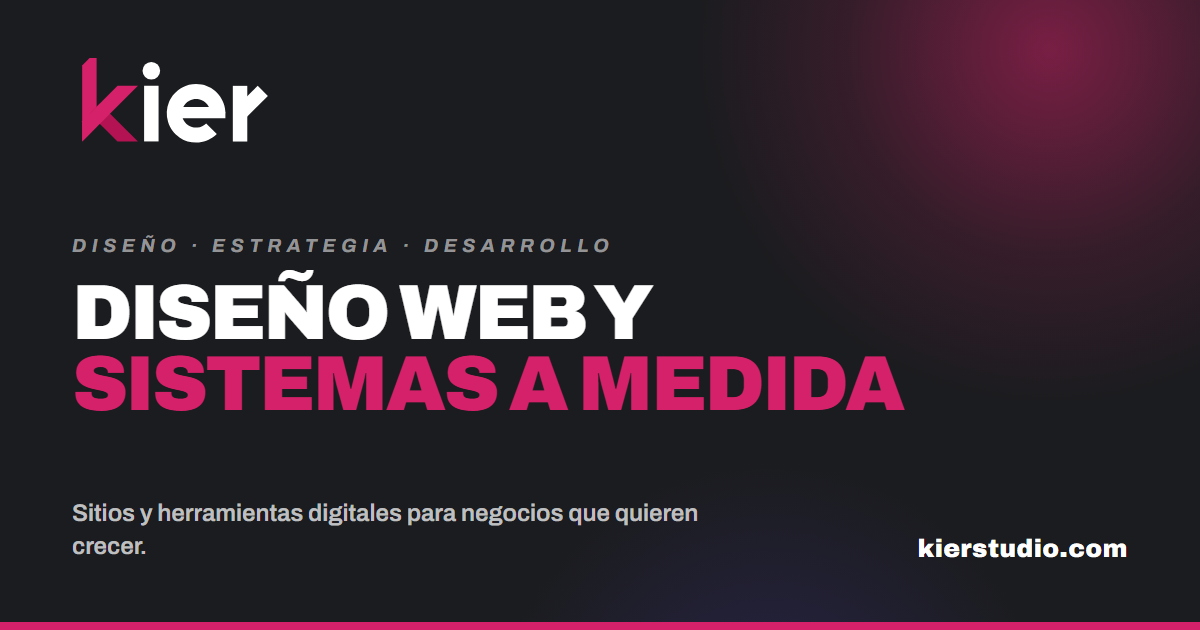
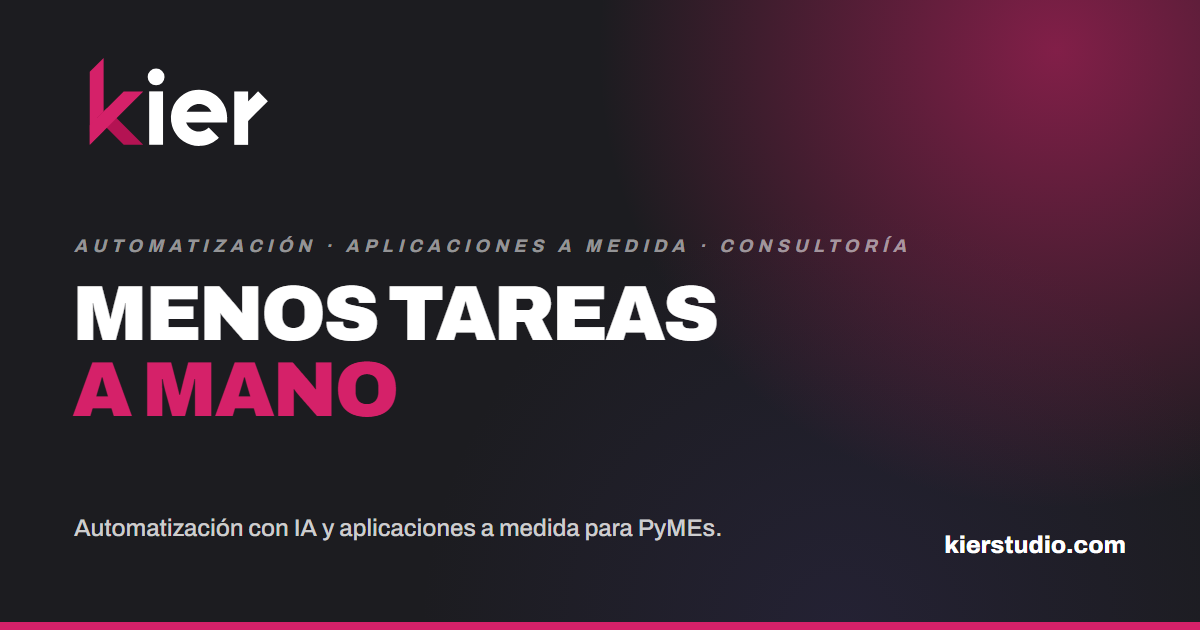
feat(hero): el hero y la metadata hablan como consultora de automatización
- Hero: "EL MUNDO AVANZA" pasa a "MENOS TAREAS A MANO"; el subtítulo dice
  qué somos y para quién (consultora de automatización y aplicaciones a
  medida para PyMEs) y la descripción nombra problemas concretos y la
  objeción principal: no hay que cambiar de sistema.
- Botones: "Hablemos sin cargo" y "Ver casos".
- Metadata: title, description, keywords, Open Graph, Twitter y la
  descripción de Organization alineados con el nuevo posicionamiento.
- og.png regenerada con el mismo diseño y el mensaje nuevo.

diff --git a/app/layout.tsx b/app/layout.tsx
@@ -26,9 +26,9 @@ const archivo = Archivo({
 
 // SEO Metadata
 export const metadata: Metadata = {
-  title: "Diseño Web y Sistemas a Medida | Kier Studio",
-  description: "¿Tu web no genera resultados o tus procesos internos son un caos? Diseñamos sitios y herramientas digitales que trabajan por tu negocio. Consultanos sin cargo.",
-  keywords: "diseño web profesional, páginas web para empresas, desarrollo web a medida, sistemas a medida Argentina, aplicaciones web para negocios, diseño web Argentina, hacer una página web para mi negocio, rediseño de sitio web, automatización de procesos digitales, agencia de diseño web Argentina",
+  title: "Automatización con IA y aplicaciones a medida | Kier Studio",
+  description: "Automatizamos las tareas repetitivas de tu PyME —facturas, pedidos, proveedores— con IA y sin cambiar tu sistema. Consultanos sin cargo.",
+  keywords: "automatización de procesos, automatización con IA, automatización para pymes, carga automática de facturas, automatizar pedidos de WhatsApp, seguimiento de proveedores, aplicaciones a medida, sistemas de gestión a medida, consultora de automatización Argentina, desarrollo de software a medida",
   authors: [{ name: "Kier Studio" }],
   creator: "Kier Studio",
   publisher: "Kier Studio",
@@ -40,22 +40,22 @@ export const metadata: Metadata = {
     type: "website",
     locale: "es_AR",
     url: "https://kierstudio.com",
-    title: "Kier Studio — Diseño Web y Sistemas Digitales a Medida",
-    description: "Páginas web profesionales y sistemas a medida para negocios que quieren crecer. Trabajamos con negocios de todo el país. Consultanos sin cargo.",
+    title: "Kier Studio — Automatización con IA y aplicaciones a medida para PyMEs",
+    description: "Detectamos las tareas que le comen horas a tu equipo —facturas, pedidos, proveedores— y las automatizamos con IA, sin cambiar el sistema que ya usás. Consultanos sin cargo.",
     siteName: "Kier Studio",
     images: [
       {
         url: "/og.png",
         width: 1200,
         height: 630,
-        alt: "Kier Studio — Diseño web y sistemas a medida",
+        alt: "Kier Studio — Automatización y aplicaciones a medida",
       },
     ],
   },
   twitter: {
     card: "summary_large_image",
-    title: "Kier Studio — Diseño Web y Sistemas Digitales a Medida",
-    description: "Páginas web profesionales y sistemas a medida para negocios que quieren crecer. Trabajamos con negocios de todo el país. Consultanos sin cargo.",
+    title: "Kier Studio — Automatización con IA y aplicaciones a medida para PyMEs",
+    description: "Detectamos las tareas que le comen horas a tu equipo —facturas, pedidos, proveedores— y las automatizamos con IA, sin cambiar el sistema que ya usás. Consultanos sin cargo.",
     images: ["/og.png"],
     creator: "@kierstudio_",
   },
@@ -92,7 +92,7 @@ export default function RootLayout({
               "name": "Kier Studio",
               "url": "https://kierstudio.com",
               "logo": "https://kierstudio.com/k-logo.svg",
-              "description": "Diseñamos y desarrollamos sitios web, sistemas a medida y herramientas digitales para negocios que quieren crecer. Estudio de diseño y desarrollo con sede en Rosario, Argentina.",
+              "description": "Consultora de automatización con IA y aplicaciones a medida para PyMEs. Automatizamos tareas repetitivas —facturas, pedidos, seguimiento de proveedores— sin reemplazar los sistemas que la empresa ya usa. Con sede en Rosario, Argentina.",
               "inLanguage": "es-AR",
               "address": {
                 "@type": "PostalAddress",

diff --git a/translations/es/hero.ts b/translations/es/hero.ts
@@ -1,10 +1,9 @@
 export const hero = {
-    location: "Diseño · Estrategia · Desarrollo",
-    title: "EL MUNDO AVANZA",
-    subtitle: "Nosotros nos encargamos de que tu negocio no se quede atrás.",
-    description: "Diseñamos y desarrollamos sitios, sistemas y herramientas digitales útiles para negocios",
-    /*descriptionBold: "Alineamos los objetivos de tu empresa, las necesidades tecnológicas y la estrategia de crecimiento a través de {bold}",*/
-    descriptionBoldText: " que quieren crecer.",
-    ctaTalk: "Consultanos sin cargo",
-    ctaWork: "Ver Trabajos",
+    location: "Automatización · Aplicaciones a medida · Consultoría",
+    title: "MENOS TAREAS A MANO",
+    subtitle: "Consultora de automatización y aplicaciones a medida para PyMEs.",
+    description: "Detectamos las tareas que le comen horas a tu equipo —cargar facturas, pasar pedidos, perseguir proveedores— y las automatizamos con IA,",
+    descriptionBoldText: " sin cambiar el sistema que ya usás.",
+    ctaTalk: "Hablemos sin cargo",
+    ctaWork: "Ver casos",
 };

diff --git a/translations/en/hero.ts b/translations/en/hero.ts
@@ -1,10 +1,9 @@
 export const hero = {
-    location: "Design · Strategy · Development",
-    title: "THE WORLD MOVES",
-    subtitle: "We make sure your business does not stay behind.",
-    description: "We design and develop sites, systems, and useful digital tools for businesses",
-    /*descriptionBold: "We align your company's goals, technology needs, and growth direction through {bold}.",*/
-    descriptionBoldText: " that want to grow.",
-    ctaTalk: "Reach out for free",
-    ctaWork: "View Work",
+    location: "Automation · Custom Applications · Consulting",
+    title: "FEWER TASKS BY HAND",
+    subtitle: "Automation and custom applications consultancy for small and mid-sized businesses.",
+    description: "We find the tasks eating up your team's hours —entering invoices, keying in orders, chasing suppliers— and automate them with AI,",
+    descriptionBoldText: " without replacing the system you already use.",
+    ctaTalk: "Talk to us, free of charge",
+    ctaWork: "See case studies",
 };
